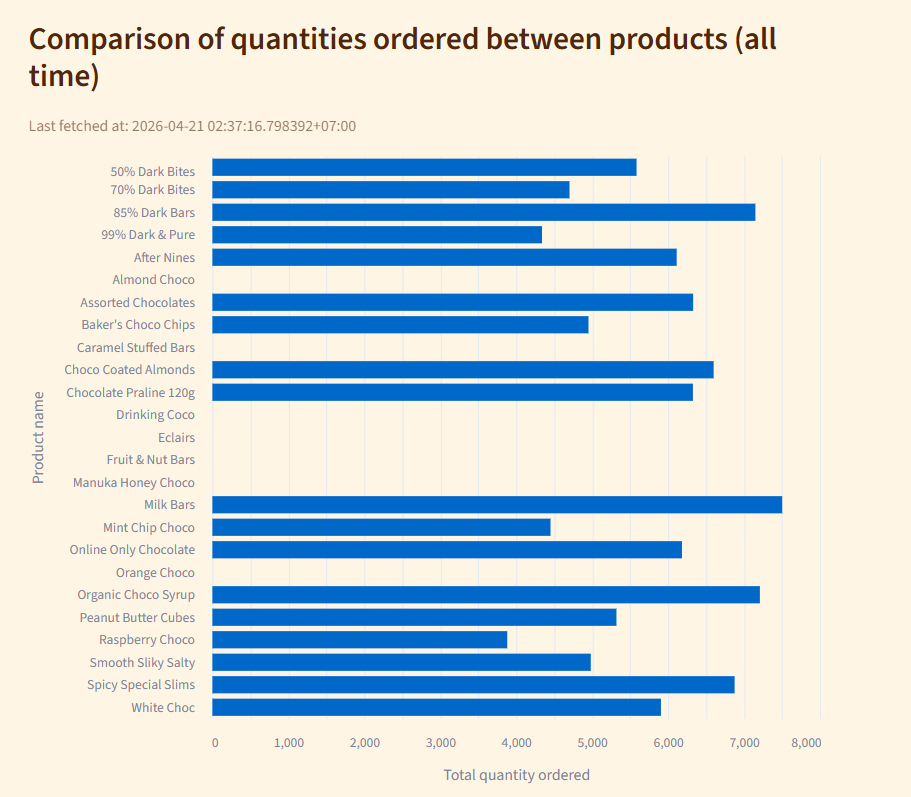
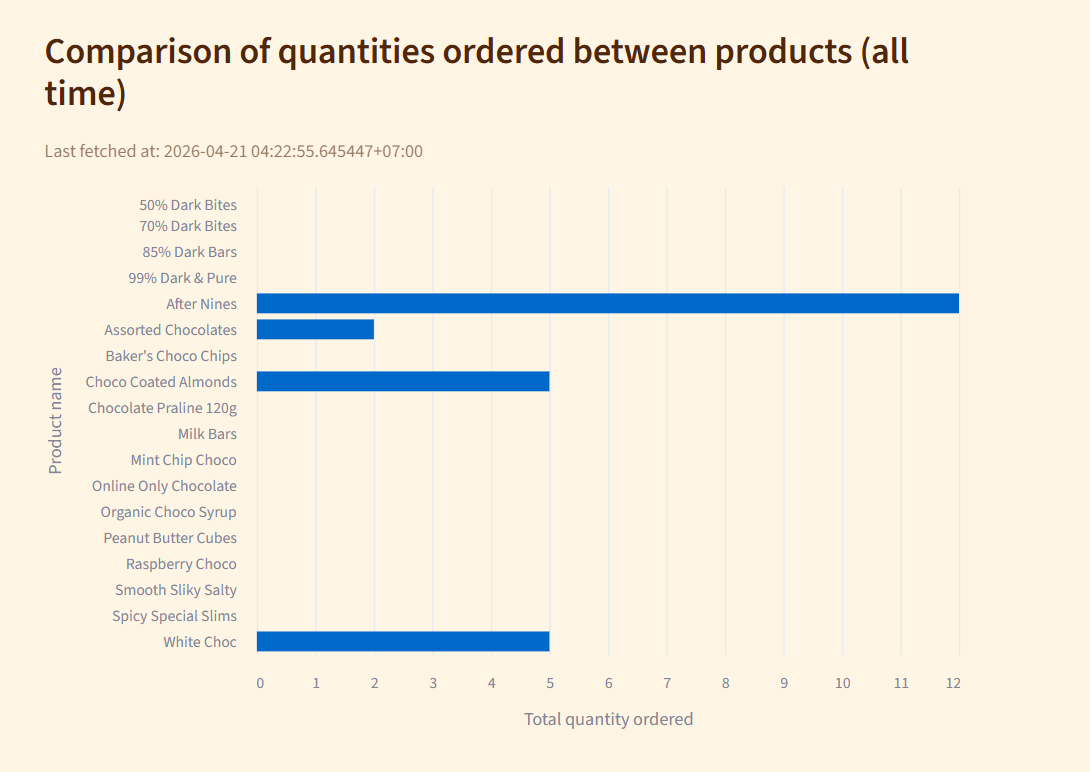
removed offline only product from chart showing comparison of quantities ordered for products sold on online store and changed screenshot for the chart

Changed region(s): [[0.0307, 0.0311, 0.8913, 0.9948], [0.7991, 0.9016, 0.8299, 0.9326]]

diff --git a/dashboard/scripts/data_loading_scripts/online_store_data_loading_script.py b/dashboard/scripts/data_loading_scripts/online_store_data_loading_script.py
@@ -10,14 +10,17 @@ def load_online_store_products_quantities_ordered_data(engine):
     and last fetched time
     """
     sql_query= """
-              SELECT COALESCE(oi.order_item_quantity, 0) AS ordered_quantity, 
-                     p.product_id, 
-                     p.product_name,
-                     oi.order_created_at,
-                     oi.order_item_order_id
+               SELECT COALESCE(oi.order_item_quantity, 0) AS ordered_quantity, 
+                      p.product_id, 
+                      p.product_name,
+                      p.product_channel,
+                      oi.order_created_at,
+                      oi.order_item_order_id
                FROM marts.fct_online_store_ordered_items oi
-               RIGHT JOIN marts.dim_products p 
-               ON p.product_id = oi.order_item_product_id 
+               RIGHT JOIN (SELECT product_id, product_name, product_channel 
+                           FROM marts.dim_products
+                           WHERE product_channel = 'Both' OR product_channel= 'Online Only') p
+               ON p.product_id = oi.order_item_product_id
                """
     # get dataframe from db's data
     online_store_product_quantity_ordered = fetch_from_db(sql_query, engine)
